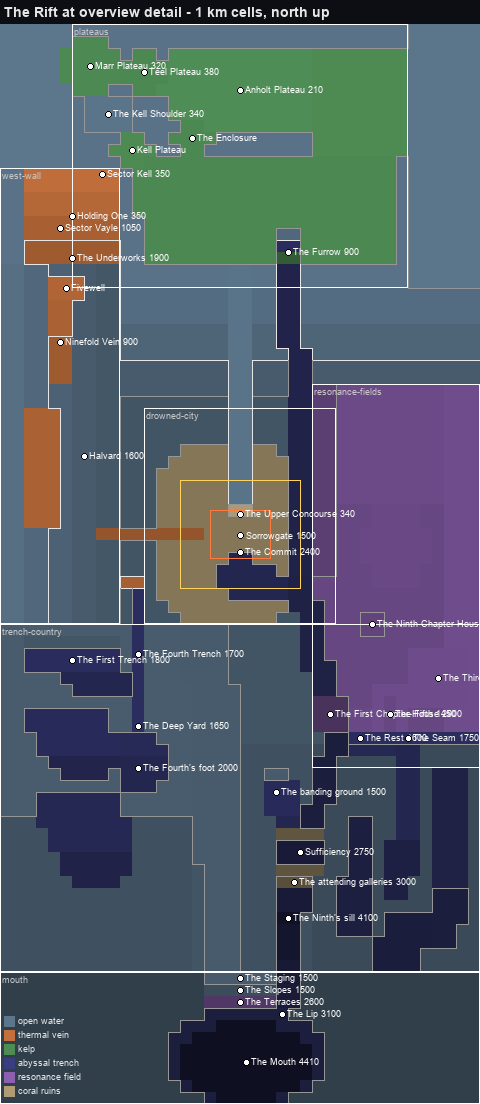
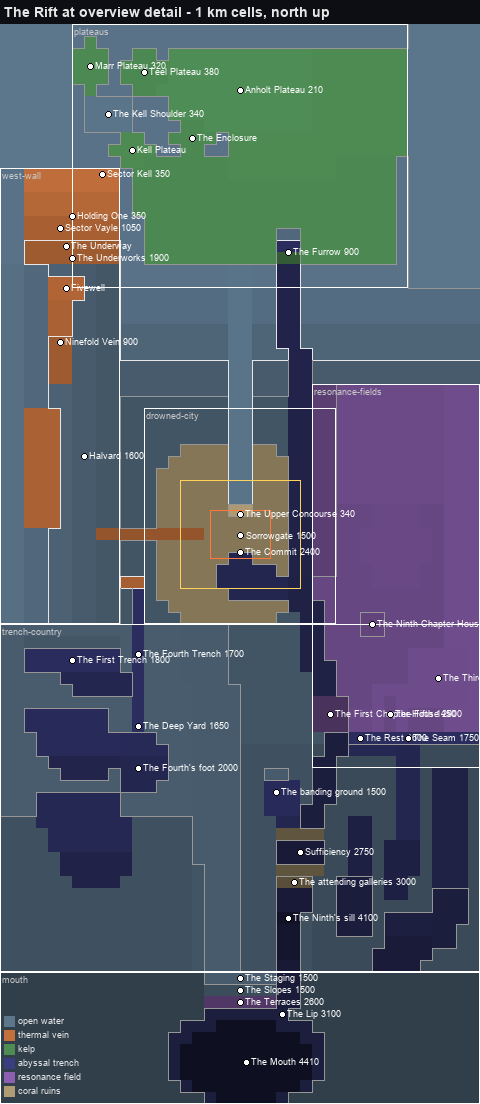
fix(shared): put the Furrow under Anholt's terrace and hold the table (#1457)
Anholt's terraces now step down to the Furrow's Foot. The Underway is
placed, Marr's oval stays inside the plateaus' rectangle, and the two
single-floor trenches gain deep ends. New tests hold the Furrow's
adjacency, the named trenches' order, the origin row and one row per
place; five negative controls fail them.

Claude-Session: https://claude.ai/code/session_01US1taybXjxt7HekVLFnvxK

diff --git a/packages/shared/test/rift.test.ts b/packages/shared/test/rift.test.ts
@@ -27,6 +27,7 @@ import {
   detailRect,
   paintGround,
   regionContains,
+  shapeContains,
   surroundFor,
   type GroundCells,
   type GroundRegion,
@@ -51,6 +52,13 @@ function place(id: string): RiftPlace {
 }
 
 const km = (a: RiftPlace, b: RiftPlace) => Math.hypot(a.x - b.x, a.y - b.y) / 1_000;
+
+/** An overview region by its note, read off the literal. */
+function region(note: string): GroundRegion {
+  const found = RIFT_GROUND.regions.filter((r) => r.note === note);
+  assert.equal(found.length, 1, `one region noted ${note}`);
+  return found[0]!;
+}
 
 const corners = (r: GroundRegion): number[] =>
   r.shape === 'polygon' ? r.points.flat() : [r.x, r.y, r.widthM, r.heightM];
@@ -157,6 +165,17 @@ describe('the named places (§3, placed by §7.2)', () => {
     assert.ok(ground(furrow).floorM >= 1_800);
   });
 
+  it("put the Furrow under Anholt's terrace (§3; mission-deep-furrow.md §1)", () => {
+    // The ground the Furrow's Foot is entered from, a cell north of it, is the
+    // last region painted there, and it is Anholt's.
+    const foot = region('The Furrow’s Foot — where the plateau’s lane comes down');
+    assert.ok(foot.shape === undefined);
+    const above = { x: foot.x + foot.widthM / 2, y: foot.y - 500 };
+    const owner = RIFT_GROUND.regions.filter((r) => shapeContains(r, above.x, above.y)).pop()!;
+    assert.match(owner.note!, /^Anholt’s /, `the Foot is entered from ${owner.note}`);
+    assert.equal(owner.biome, Biome.KelpForest);
+  });
+
   it('give the plateaus and Sector Kell one fence, and Halvard its kilometre (§3, §4)', () => {
     assert.ok(km(place('sector-kell'), place('kell-plateau')) <= 4, 'adjacent');
     const halvard = place('halvard');
@@ -206,6 +225,24 @@ describe('the named places (§3, placed by §7.2)', () => {
     const on = { x: lip.x + (lip.x - galleries.x) * 0.4, y: lip.y + (lip.y - galleries.y) * 0.4 };
     assert.equal(cellAt(overview, on.x, on.y).floorM, 4_410);
     assert.ok(lip.x > place('the-mouth').x, 'the column arrives on the eastern lip');
+  });
+
+  it('deepen the named trenches in the order of their count (§3)', () => {
+    // §3 counts a trench by its floor: the First's 1,800 m, the Fourth's by its
+    // Foot, the Ninth below 3,400 m; the Second is the First's sill's way on
+    // (docs/mission-trench-awakening.md §11).
+    const floors = [
+      region('The First Trench — the shallow band, under its worked rim'),
+      region('The Second Trench'),
+      region('The Foot — the Fourth’s last bench, where the Cantorate listens'),
+      region('The Ninth’s axis, below the galleries'),
+    ].map((r) => r.floorM!);
+    assert.deepEqual(
+      floors,
+      [...floors].sort((a, b) => a - b)
+    );
+    assert.equal(floors[0], 1_800);
+    assert.ok(floors[3]! >= 3_400);
   });
 
   it('aim the First Chord down the trench axis into the Mouth (§3)', () => {
@@ -259,17 +296,26 @@ describe("§7.2's anchor table", () => {
         .map((cell) => cell.trim())
     );
 
+  const position = (row: string[]) =>
+    row[1]!
+      .replace(/[()]/g, '')
+      .split(', ')
+      .map((v) => Number(v.replace(/,/g, '')));
+
+  it("pins Sorrowgate's map origin where the region stands", () => {
+    const origin = rows.filter(([name]) => name!.startsWith("Sorrowgate's map origin"));
+    assert.equal(origin.length, 1);
+    assert.deepEqual(position(origin[0]!), [SORROWGATE_REGION.x, SORROWGATE_REGION.y]);
+  });
+
   it('is the data, row for row: name, position and depth', () => {
-    assert.equal(rows.length, RIFT_PLACES.length + 1, "every place, and Sorrowgate's map origin");
+    const matched = new Set<string[]>();
     for (const p of RIFT_PLACES) {
-      const row = rows.find(([name]) => name === p.name || name!.startsWith(`${p.name} —`));
-      assert.ok(row, `${p.name} has a row`);
-      const [x, y] = row[1]!
-        .replace(/[()]/g, '')
-        .split(', ')
-        .map((v) => Number(v.replace(/,/g, '')));
-      assert.deepEqual([x, y], [p.x, p.y], `${p.name}'s position`);
-      const depths = row[2] === '—' ? [] : row[2]!.replace(/ m$/, '').split('–');
+      const row = rows.filter(([name]) => name === p.name || name!.startsWith(`${p.name} —`));
+      assert.equal(row.length, 1, `${p.name} has exactly one row`);
+      matched.add(row[0]!);
+      assert.deepEqual(position(row[0]!), [p.x, p.y], `${p.name}'s position`);
+      const depths = row[0]![2] === '—' ? [] : row[0]![2]!.replace(/ m$/, '').split('–');
       const want = [p.depthM, p.toDepthM].filter((d) => d !== undefined);
       assert.deepEqual(
         depths.map((d) => Number(d.replace(/,/g, ''))),
@@ -277,6 +323,9 @@ describe("§7.2's anchor table", () => {
         `${p.name}'s depth`
       );
     }
+    // Every row but the origin's is a place, and no place has two.
+    assert.equal(matched.size, RIFT_PLACES.length);
+    assert.equal(rows.length, RIFT_PLACES.length + 1, "the places and Sorrowgate's map origin");
   });
 });
 

diff --git a/packages/shared/src/rift.ts b/packages/shared/src/rift.ts
@@ -112,6 +112,7 @@ export const RIFT_PLACES: readonly RiftPlace[] = [
     y: 17_000,
     depthM: 1_050,
   },
+  { id: 'the-underway', name: 'The Underway', region: 'west-wall', x: 5_500, y: 18_500 },
   {
     id: 'the-underworks',
     name: 'The Underworks',
@@ -403,7 +404,11 @@ export const RIFT_GROUND: MapGround = {
       380,
       'The lower terraces, at the Shelf break'
     ),
-    oval(5, 1, 5, 5, KelpForest, 320, 'Marr Plateau — Tidespeaker Marr’s terrace, b. 320 m'),
+    // Anholt's terraces step down south to the Furrow's Foot, which lies under
+    // them (§3; docs/mission-deep-furrow.md §1).
+    box(19, 9, 9, 4, KelpForest, 300, 'Anholt’s middle terraces'),
+    box(20, 13, 8, 4, KelpForest, 380, 'Anholt’s lower terraces — down to the Furrow’s Foot'),
+    oval(6, 1, 3, 5, KelpForest, 320, 'Marr Plateau — Tidespeaker Marr’s terrace, b. 320 m'),
     oval(10, 2, 4, 4, KelpForest, 380, 'Teel Plateau — Warden Teel’s, east of Marr, b. 380 m'),
     outline(
       [
@@ -714,27 +719,29 @@ export const RIFT_GROUND: MapGround = {
       3_100,
       'Its deep end'
     ),
+    box(29, 66, 2, 5, AbyssalTrench, 2_900, 'A trench of the nine'),
     outline(
       [
-        [29, 66],
-        [31, 66],
+        [28, 71],
+        [31, 71],
         [31, 76],
         [28, 76],
       ],
       AbyssalTrench,
-      3_000,
-      'A trench of the nine'
+      3_200,
+      'Its deep end'
     ),
+    box(32, 74, 4, 2, AbyssalTrench, 3_000, 'A trench of the nine'),
     outline(
       [
-        [32, 74],
-        [36, 74],
+        [32, 76],
+        [36, 76],
         [35, 79],
         [31, 79],
       ],
       AbyssalTrench,
-      3_200,
-      'A trench of the nine'
+      3_300,
+      'Its deep end'
     ),
 
     // The Rim (§3): the Mouth's northern edge, stepping down in four bands.
